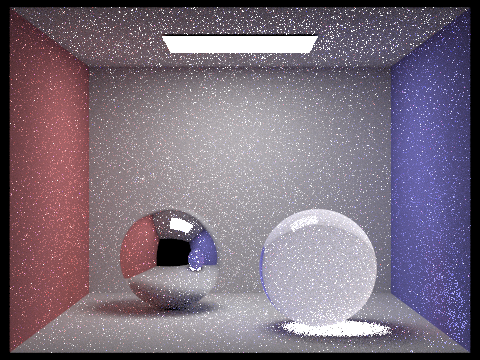
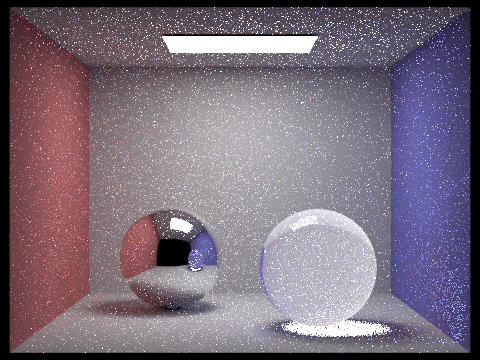
Should have used better descriptors in part 3-1

Changed region(s): [[0.0312, 0.0, 1.0, 0.9778]]

diff --git a/src/static_scene/sphere.cpp b/src/static_scene/sphere.cpp
@@ -23,10 +23,14 @@ bool Sphere::test(const Ray& r, double& t1, double& t2) const {
 	else {
 		double t1a = (-b + sqrt(b*b - 4 * a*c)) / (2 * a);
 		double t2a = (-b - sqrt(b*b - 4 * a*c)) / (2 * a);
-		if ((t2a < r.max_t && t2a > r.min_t) || (t1a < r.max_t && t1a > r.min_t)) {
+		if (t2a < r.max_t && t2a > r.min_t) {
 			t1 = t2a;
 			t2 = t1a;
 			return true;
+		}
+		else if (t1a < r.max_t && t1a > r.min_t) {
+			t2 = t2a;
+			t1 = t1a;
 		}
 		return false;
 	}
